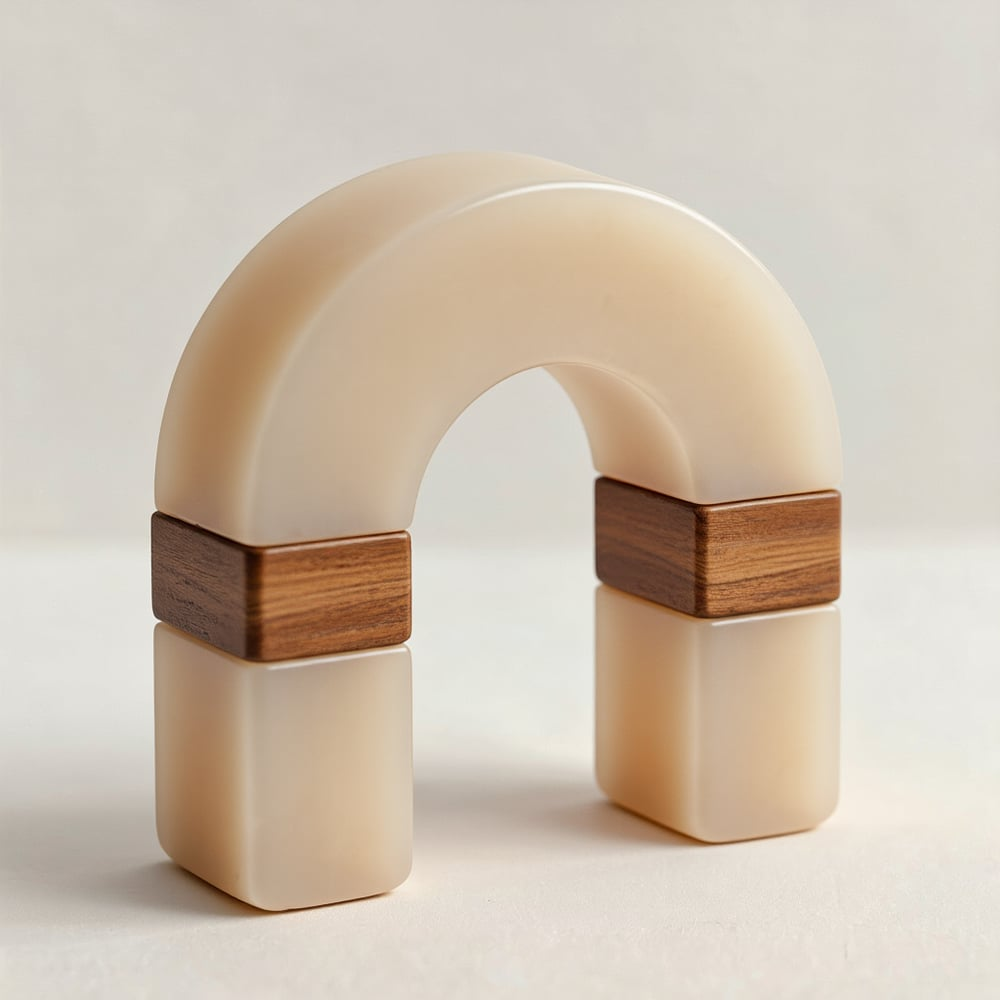
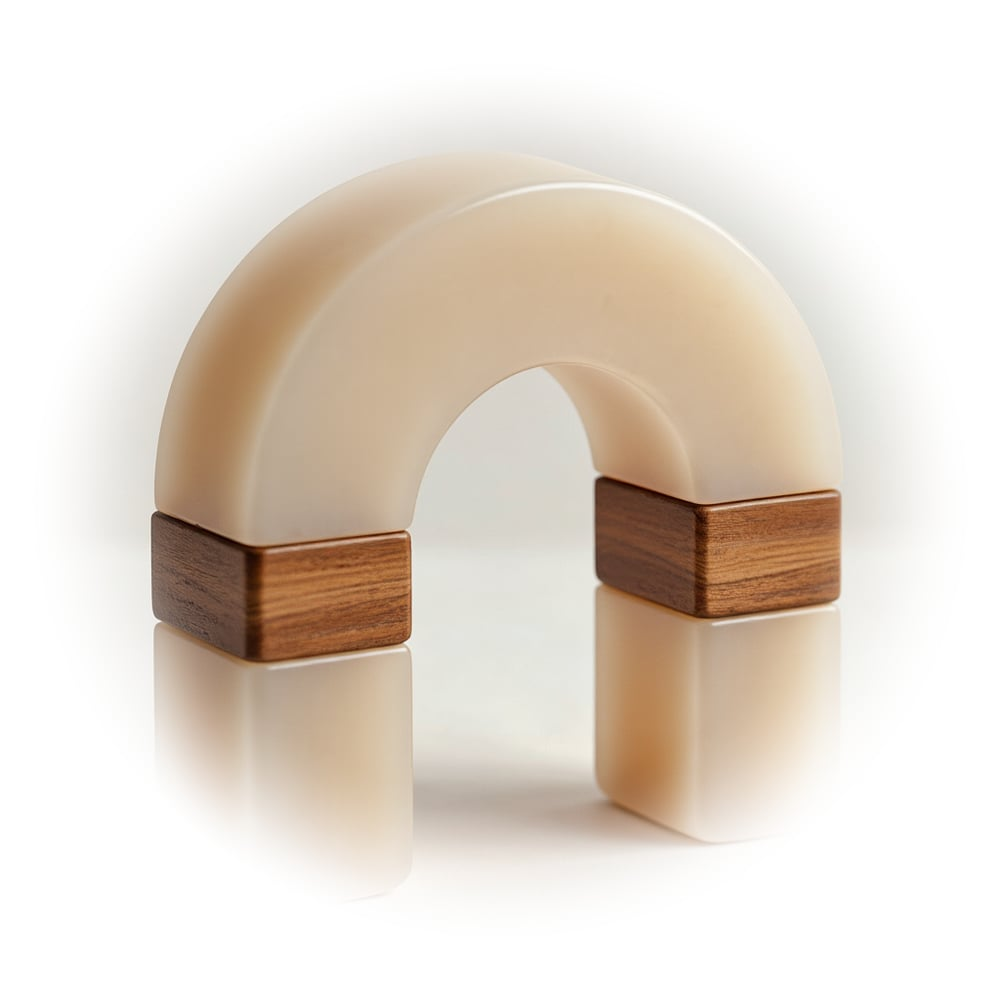
cities act 03: 三档背景色随卡切换 + 文案改版 + 卡片缩档 + 羽化烘焙进图
- 背景变色：stage 里叠三层 .tr-tint（absolute 满铺、opacity 交叉淡入，
  合成器通道不重绘），色取三张拱图的重点色——杏橙 #f6d5ae（橙粉尘）/
  沙卡其 #e6dcba（胡桃木）/ 珊瑚粉 #f8d3c6（暖光），随 data-active 切换。
  白卡在色底上不再靠投影硬撑，参考站的「色房间」感出来了。
- intro 改版：主句 'Frisson builds the methodology, sensory library and
  standards that carry a creator's vision into the language of habitat.'
  （用户原稿语法磕绊已修平），弱显示行 'through material, texture, light,
  sound, scent, and atmosphere.'；原两句副文与 .tr-bridge 删除。
- MATERIALS → SENSORY LIBRARY（巨型词允许折行，去 nowrap；卡2眉标与描述同步）。
- 眉标去掉 01/02/03 数字前缀。
- 卡片缩档：470px/82vw、padding 与圆角同步降；卡面 min-height 36svh；
  巨型词 13vw→14vw 更霸道。
- 羽化改烘焙：白色径向渐变直接合成进 JPG 像素（sharp smoothstep alpha），
  删 CSS mask——预览面板上 mask 渲染时好时坏，烘焙是确定性的且少一层合成。
  图反而更小（30-41KB）。

diff --git a/src/cities.html b/src/cities.html
@@ -86,7 +86,7 @@
      so the heat traces whatever the word is set in. */
   .tt-stage{position:relative;min-height:100svh;display:grid;place-items:center;overflow:clip;cursor:crosshair;background:#fff;}
   .tt-word{position:relative;z-index:1;margin:0;font-family:var(--sans);font-weight:700;
-    font-size:clamp(56px,12vw,168px);line-height:1.08;letter-spacing:.04em;text-align:center;
+    font-size:clamp(58px,16vw,168px);line-height:1.08;letter-spacing:.04em;text-align:center;
     color:#454545;user-select:none;}
   .tt-fx{position:absolute;inset:0;z-index:2;width:100%;height:100%;pointer-events:none;}
 
@@ -114,27 +114,35 @@
     color:var(--ink);margin:0 auto clamp(22px,3.5vh,34px);max-width:30ch;text-wrap:balance;}
   .tr-sub{font-weight:400;font-size:clamp(14px,1.5vw,17px);line-height:1.7;color:var(--ink-soft);
     margin:0 auto;max-width:58ch;}
-  .tr-bridge{margin-top:clamp(14px,2.2vh,22px);}
   /* stage: pin first (its sticky travel comes from the words' height), words pulled
      up underneath. 3 × 105svh ≈ 315svh total; the card pins for ≈ 215svh. */
   .tr-stage{position:relative;}
+  /* 三档背景色 — 取自三张拱图的重点色（橙粉尘/胡桃木/珊瑚光），叠放 opacity 交叉淡入
+     （§5.5：合成器通道，不整段重绘背景色） */
+  .tr-tint{position:absolute;inset:0;z-index:0;opacity:0;transition:opacity .8s ease;}
+  .tr-tint[data-tint="1"]{background:#f6d5ae;}   /* 杏橙 — 图1的橙粉尘 */
+  .tr-tint[data-tint="2"]{background:#e6dcba;}   /* 沙卡其 — 图2的胡桃木 */
+  .tr-tint[data-tint="3"]{background:#f8d3c6;}   /* 珊瑚粉 — 图3的暖光 */
+  .tr-stage[data-active="1"] .tr-tint[data-tint="1"],
+  .tr-stage[data-active="2"] .tr-tint[data-tint="2"],
+  .tr-stage[data-active="3"] .tr-tint[data-tint="3"]{opacity:1;}
   .tr-pin{position:sticky;top:0;height:100svh;display:grid;place-items:center;
     z-index:2;pointer-events:none;}
   .tr-words{position:relative;z-index:1;margin-top:-100svh;}
   .tr-word{min-height:105svh;display:grid;place-items:center;
-    font-family:var(--sans);font-weight:700;text-transform:uppercase;white-space:nowrap;
-    font-size:clamp(44px,13vw,220px);line-height:1;letter-spacing:.02em;text-align:center;
+    font-family:var(--sans);font-weight:700;text-transform:uppercase;
+    font-size:clamp(44px,14vw,240px);line-height:1.02;letter-spacing:.02em;text-align:center;
     color:var(--ink);opacity:.12;transition:opacity .6s ease;user-select:none;}
   .tr-stage[data-active="1"] .tr-word[data-word="1"],
   .tr-stage[data-active="2"] .tr-word[data-word="2"],
   .tr-stage[data-active="3"] .tr-word[data-word="3"]{opacity:1;}
   /* card — §5.6b: corner-shape squircle (see the shared @supports list), equal-length
      clamp() radius, padding grows with the radius, soft shadow (never clip-path). */
-  .tr-card{width:min(560px,86vw);pointer-events:auto;background:#fff;
-    border-radius:clamp(40px,6vw,88px);
-    padding:clamp(40px,6vw,72px) clamp(34px,5vw,64px);
+  .tr-card{width:min(470px,82vw);pointer-events:auto;background:#fff;
+    border-radius:clamp(36px,5.5vw,72px);
+    padding:clamp(32px,5vw,54px) clamp(28px,4.5vw,48px);
     box-shadow:0 30px 80px -24px rgba(40,25,10,.25),0 4px 18px -8px rgba(40,25,10,.10);}
-  .tr-faces{display:grid;min-height:clamp(300px,46svh,420px);}
+  .tr-faces{display:grid;min-height:clamp(250px,36svh,330px);}
   .tr-face{grid-area:1/1;display:flex;flex-direction:column;align-items:center;justify-content:center;
     text-align:center;gap:clamp(16px,2.4vh,26px);
     opacity:0;transform:translateY(10px);pointer-events:none;
@@ -144,22 +152,21 @@
   .tr-stage[data-active="3"] .tr-face[data-face="3"]{opacity:1;transform:none;}
   .tr-eyebrow{font-family:var(--sans);font-weight:700;font-size:11px;letter-spacing:.18em;
     text-transform:uppercase;color:#8c837a;margin:0;}
-  /* AI 软 3D 拱（openart 出图，摄影灰白底）：径向羽化蒙版把照片底融进纯白卡面 */
-  .tr-face img{width:clamp(160px,26svh,240px);height:auto;display:block;
-    -webkit-mask-image:radial-gradient(ellipse 62% 58% at 50% 50%,#000 50%,transparent 76%);
-    mask-image:radial-gradient(ellipse 62% 58% at 50% 50%,#000 50%,transparent 76%);}
+  /* AI 软 3D 拱（openart 出图）：白色径向羽化已烘焙进 JPG 像素（卡面纯白，视觉等价），
+     不用 CSS mask——预览面板上 mask 渲染时好时坏，烘焙是确定性的（§5.5 预烘焙哲学） */
+  .tr-face img{width:clamp(140px,22svh,200px);height:auto;display:block;}
   .tr-desc{font-family:var(--serif);font-weight:400;font-size:clamp(15px,1.7vw,19px);
     line-height:1.6;color:var(--ink-soft);margin:0;max-width:34ch;}
   @media(max-width:820px){
     .sig-row{grid-template-columns:repeat(4,1fr);row-gap:0;}
     .sig-row svg:nth-child(n+5){display:none;}   /* four signatures read better than seven crushed */
-    .tr-card{width:min(480px,88vw);border-radius:clamp(30px,8vw,56px);
-      padding:clamp(28px,7vw,44px) clamp(22px,6vw,36px);}
-    .tr-faces{min-height:clamp(280px,42svh,380px);}
+    .tr-card{width:min(400px,86vw);border-radius:clamp(26px,7vw,48px);
+      padding:clamp(24px,6vw,36px) clamp(18px,5vw,30px);}
+    .tr-faces{min-height:clamp(240px,34svh,320px);}
   }
   @media(prefers-reduced-motion:reduce){
     .draw{stroke-dashoffset:0;}
-    .tr-word,.tr-face{transition:none;}   /* sticky + state swap stay; swaps are instant */
+    .tr-word,.tr-face,.tr-tint{transition:none;}   /* sticky + state swap stay; swaps are instant */
   }
 
   .hero{position:relative;width:100%;aspect-ratio:1513/1039;height:auto;overflow:hidden;background:#fff;}   /* full painting, uncropped (matches image proportions) */
@@ -551,26 +558,28 @@
        NOTE: no .act shell here — .act's overflow:hidden would silently kill sticky. -->
   <section class="tr-act" id="act-materialise" aria-label="The three instruments of translation">
     <div class="tr-intro reveal">
-      <p class="tr-lead">Frisson's capability lies in translating between the two: carrying a creator's vision into the language of habitat — through material, texture, light, sound, scent, and atmosphere.</p>
-      <p class="tr-sub">This translation does not happen through instinct alone.</p>
-      <p class="tr-sub tr-bridge">It rests on three instruments.</p>
+      <p class="tr-lead">Frisson builds the methodology, sensory library and standards that carry a creator's vision into the language of habitat.</p>
+      <p class="tr-sub">through material, texture, light, sound, scent, and atmosphere.</p>
     </div>
     <div class="tr-stage" id="trStage" data-active="1">
+      <div class="tr-tint" data-tint="1" aria-hidden="true"></div>
+      <div class="tr-tint" data-tint="2" aria-hidden="true"></div>
+      <div class="tr-tint" data-tint="3" aria-hidden="true"></div>
       <div class="tr-pin">
         <div class="tr-card">
           <div class="tr-faces">
             <div class="tr-face" data-face="1">
-              <p class="tr-eyebrow">01 · Methodology</p>
+              <p class="tr-eyebrow">Methodology</p>
               <img src="assets/city/tr-arch-1.jpg" alt="" loading="lazy" decoding="async">
               <p class="tr-desc">A methodology for reading a creator's language before a single material is chosen.</p>
             </div>
             <div class="tr-face" data-face="2">
-              <p class="tr-eyebrow">02 · Materials</p>
+              <p class="tr-eyebrow">Sensory Library</p>
               <img src="assets/city/tr-arch-2.jpg" alt="" loading="lazy" decoding="async">
-              <p class="tr-desc">A proprietary material library — surfaces catalogued for how they feel, not only how they look.</p>
+              <p class="tr-desc">A proprietary sensory library — surfaces and atmospheres catalogued for how they feel, not only how they look.</p>
             </div>
             <div class="tr-face" data-face="3">
-              <p class="tr-eyebrow">03 · Standards</p>
+              <p class="tr-eyebrow">Standards</p>
               <img src="assets/city/tr-arch-3.jpg" alt="" loading="lazy" decoding="async">
               <p class="tr-desc">Construction standards that ensure creative intent survives from concept to execution.</p>
             </div>
@@ -579,7 +588,7 @@
       </div>
       <div class="tr-words" aria-hidden="true">
         <div class="tr-word" data-word="1">Methodology</div>
-        <div class="tr-word" data-word="2">Materials</div>
+        <div class="tr-word" data-word="2">Sensory Library</div>
         <div class="tr-word" data-word="3">Standards</div>
       </div>
     </div>
@@ -2102,7 +2111,7 @@
     '  vec2 wuv=uv+(0.07*vec2(w1-0.47,w2-0.47)*mn)/u_res;', // 扭曲采样：热溢出描线的毛边
     '  float m=pow(texture2D(u_txt,wuv).r,0.6);',  // gamma 提亮蒙版裙摆：团块能鼓出描线外
     '  vec2 dv=p-u_hot;',
-    '  float env=max(exp(-(dv.x*dv.x*5.0+dv.y*dv.y*9.0)),0.22);', // 椭圆热核（横向略宽，热沿词延展）
+    '  float env=max(exp(-(dv.x*dv.x*5.0+dv.y*dv.y*9.0)),0.36);', // 椭圆热核（横向略宽，热沿词延展）
     '  float v=m*(0.35+0.66*n)*env*u_amp-0.27;',
     '  float a=smoothstep(0.0,0.04,v);',
     '  float h=clamp(v*1.25,0.0,1.0);',
@@ -2243,6 +2252,33 @@
   });
   stage.addEventListener('pointerleave', function(){ ptr = false; });
 
+  // 移动端：手指落在词上 → 这次手势归热场（preventDefault 阻止滚动），落在别处照常滚页。
+  // 取消默认后部分浏览器停发 pointermove，所以直接用 touch 坐标喂热源（同 sona #s4 的教训）。
+  var claim = false;
+  function heatFromTouch(t){
+    var r = stage.getBoundingClientRect();
+    var mn = Math.min(r.width, r.height);
+    tx = (t.clientX - r.left - r.width  / 2) / mn;
+    ty = (r.height / 2 - (t.clientY - r.top)) / mn;
+    ta = 1.1; ptr = true;
+  }
+  stage.addEventListener('touchstart', function(e){
+    var el = e.target;
+    claim = !!(el && el.closest && el.closest('.tt-word'));
+    if(!claim) return;
+    e.preventDefault();
+    heatFromTouch(e.touches[0]);
+  }, {passive:false});
+  stage.addEventListener('touchmove', function(e){
+    if(!claim) return;
+    e.preventDefault();
+    heatFromTouch(e.touches[0]);
+  }, {passive:false});
+  function endT(){ if(claim){ claim = false; ptr = false; } }
+  stage.addEventListener('touchend', endT, {passive:true});
+  stage.addEventListener('touchcancel', endT, {passive:true});
+
+
   function draw(){
     gl.clear(gl.COLOR_BUFFER_BIT);
     gl.uniform2f(uRes, cv.width, cv.height);
@@ -2260,7 +2296,7 @@
       // 相位全部线性喂给 sin（§5.9：循环相位不缓动，非线性来自波形本身）
       tx = 0.30 * Math.sin(T * 0.21)        + 0.12 * Math.sin(T * 0.083 + 2.1);
       ty = 0.16 * Math.sin(T * 0.157 + 1.3) + 0.08 * Math.sin(T * 0.117 + 4.0);
-      ta = 0.76 + 0.20 * Math.sin(T * 0.10 + 0.6);
+      ta = 0.88 + 0.18 * Math.sin(T * 0.10 + 0.6);
     }
     var k = 1 - Math.exp(-dt * (ptr ? 6 : 1.2));
     hx += (tx - hx) * k; hy += (ty - hy) * k; amp += (ta - amp) * k;
